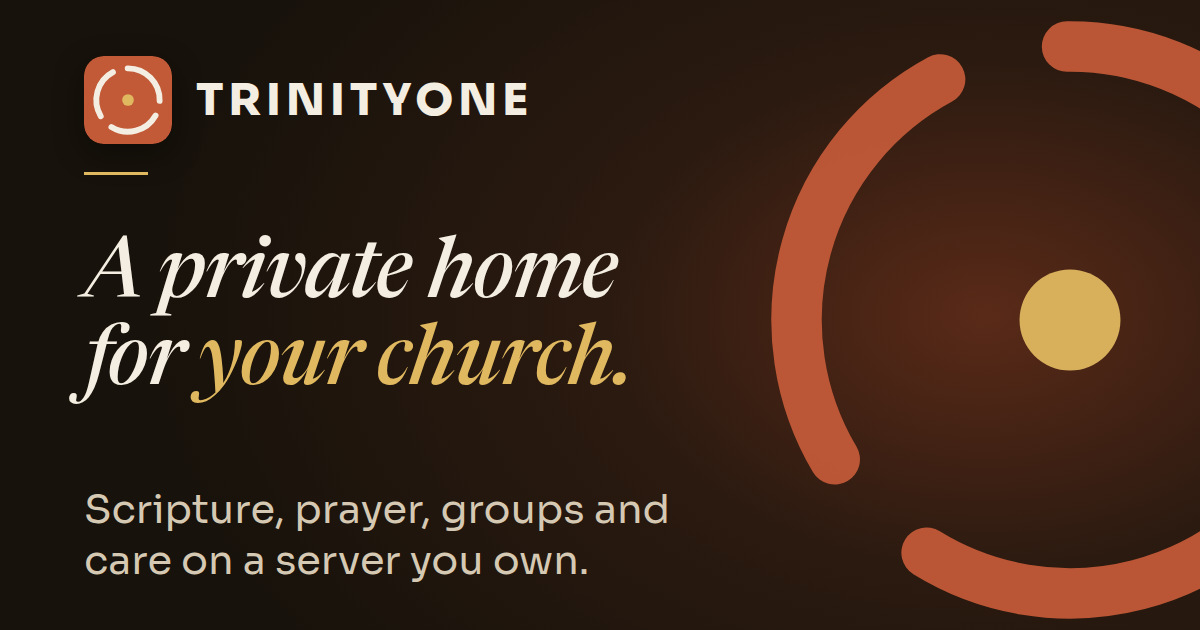
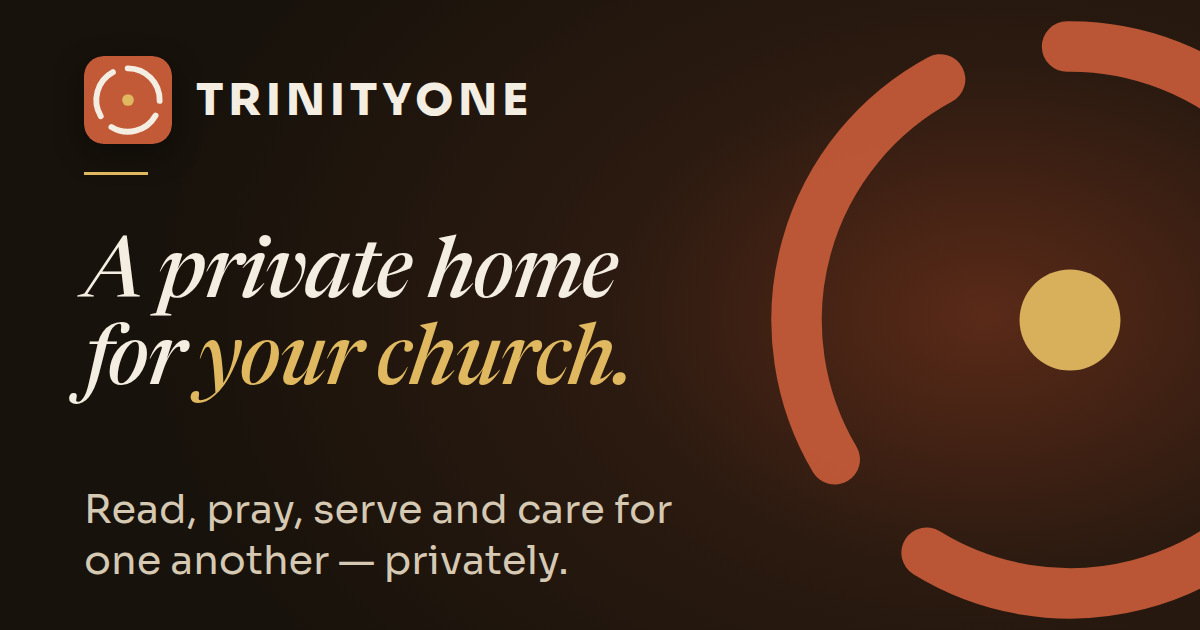
feat(site): cover card tagline is now 'Read, pray, serve and care for one another — privately.'
Two lines at 40px, clear of the ring (viewed full size and at 300px). og-cover-v2.jpg 119,417 bytes (script size check passes).
Re-rendered with scripts/make-og-cards.sh; the join card is byte-identical.

Claude-Session: https://claude.ai/code/session_011roaxWc9GnrTDyizQcCh6A

Changed region(s): [[0.0617, 0.7841, 0.555, 0.8444], [0.0617, 0.8746, 0.4933, 0.9349]]

diff --git a/scripts/og-card.html b/scripts/og-card.html
@@ -114,7 +114,7 @@
     }
   };
   var V2 = {
-    cover2: {h: 'A private home for <em>your church.</em>', tag: 'Scripture, prayer, groups and care on a server you own.', pill: ''},
+    cover2: {h: 'A private home for <em>your church.</em>', tag: 'Read, pray, serve and care for one another — privately.', pill: ''},
     join2:  {h: 'Join your church on <em>TrinityOne</em>', tag: '', pill: 'Tap to join'}
   };
   var v = (new URLSearchParams(location.search).get('v') || 'join');
